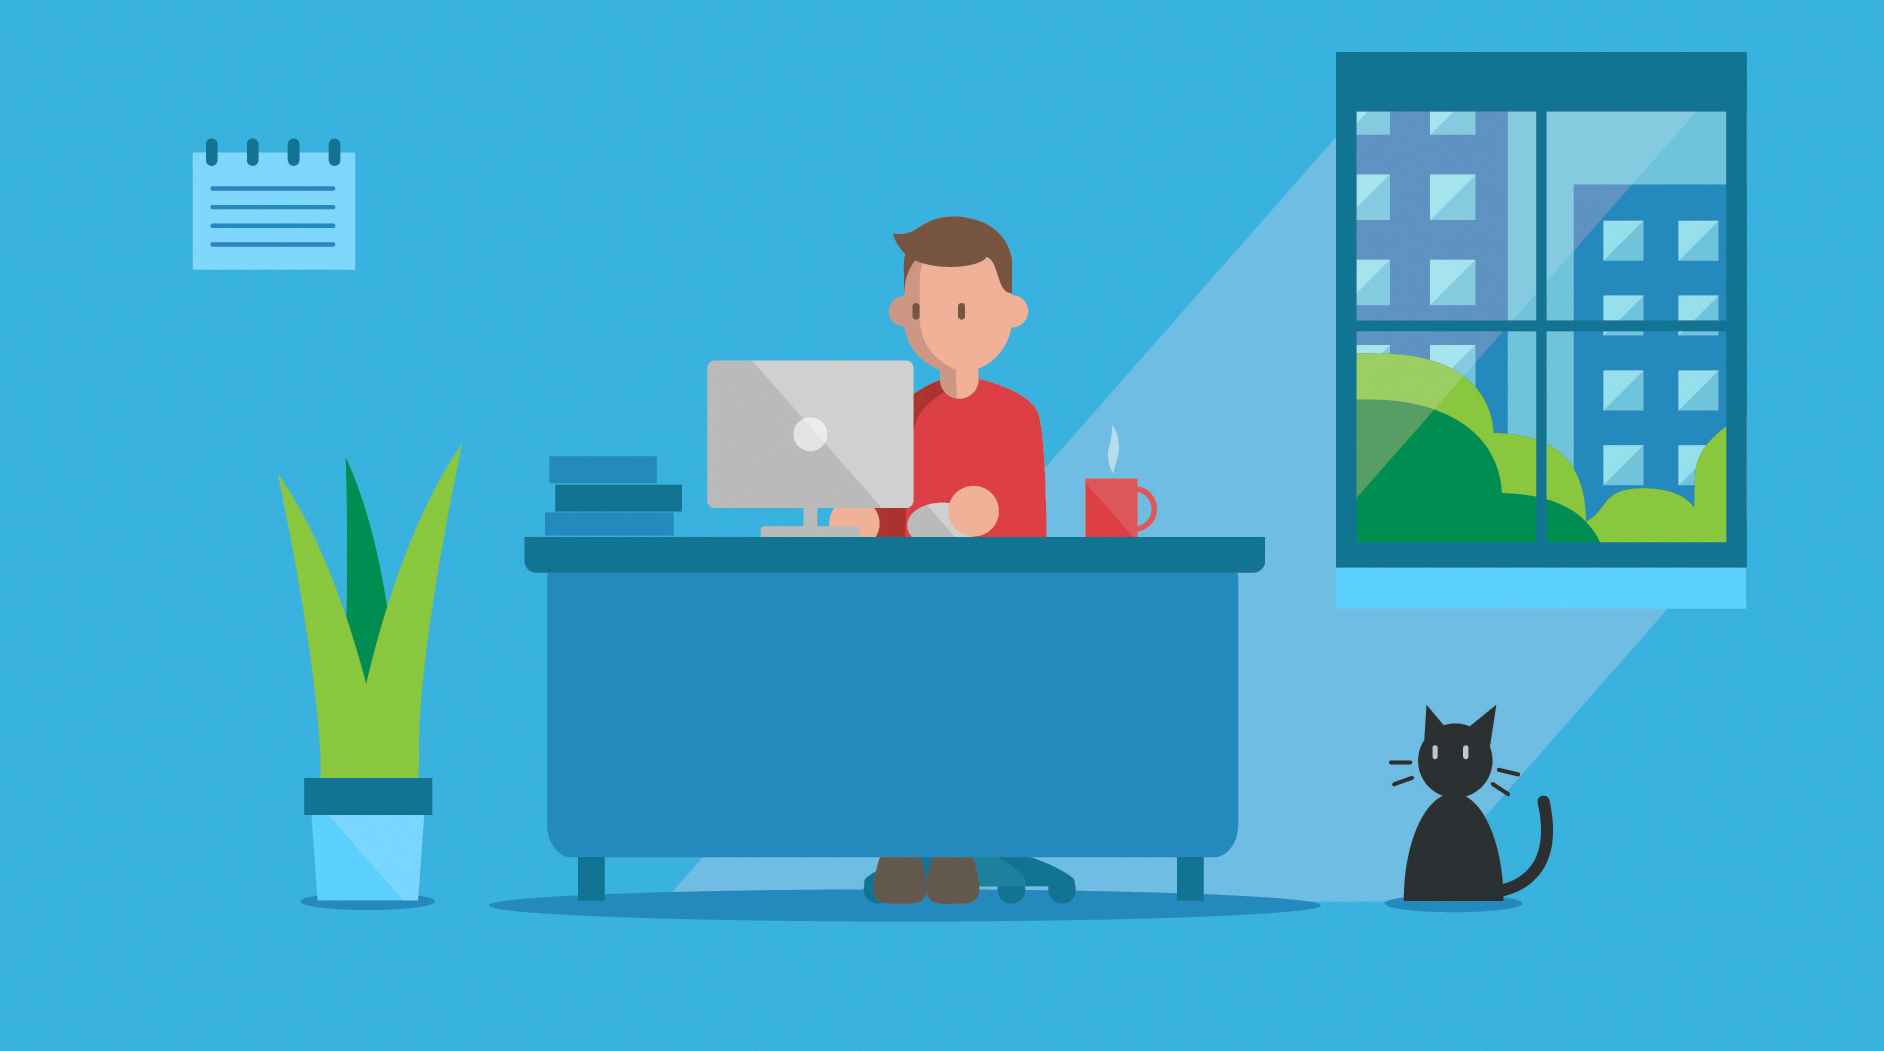
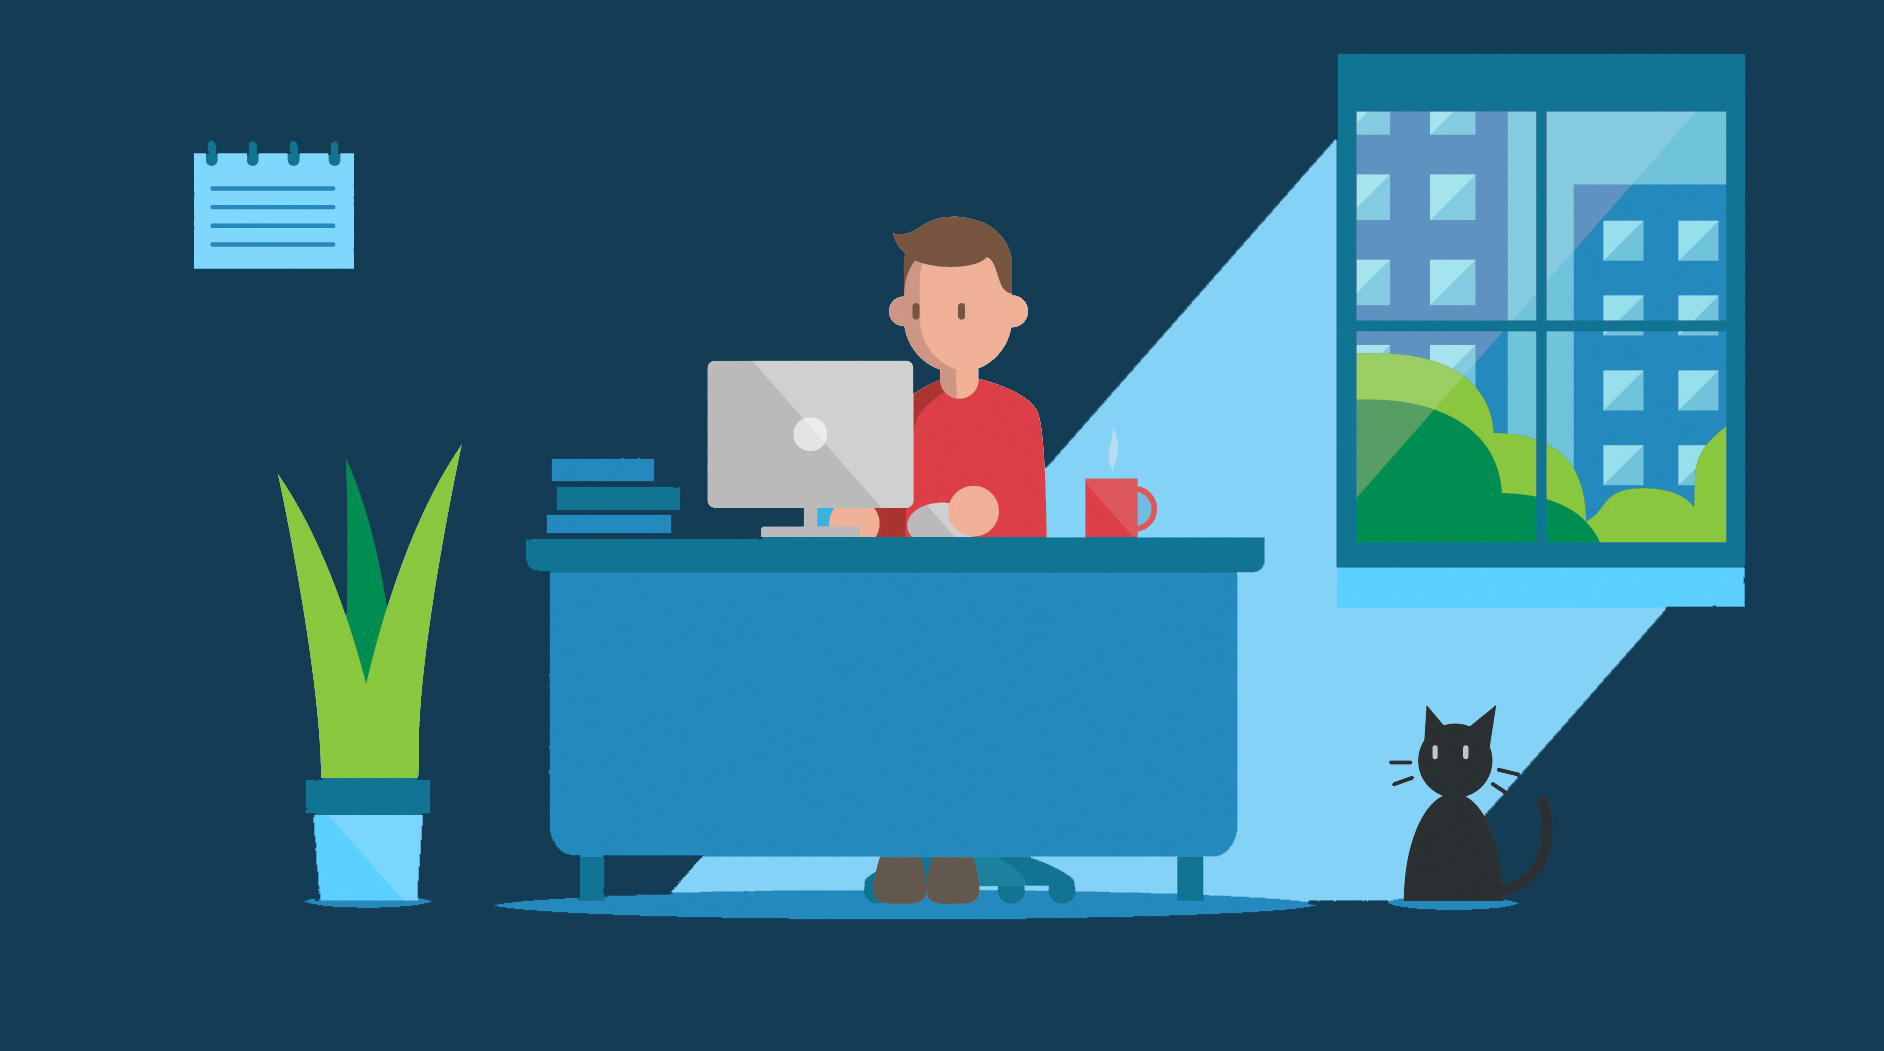
update the bg color and image

diff --git a/src/app/login-page/login-page.component.ts b/src/app/login-page/login-page.component.ts
@@ -11,7 +11,7 @@ export class LoginPageComponent implements OnInit {
 
   }
   ngAfterViewInit(){
-    this.elementRef.nativeElement.ownerDocument.body.style.backgroundColor = '#39B2DF';
+    this.elementRef.nativeElement.ownerDocument.body.style.backgroundColor = '#143C55';
  }
 
   ngOnInit() {
